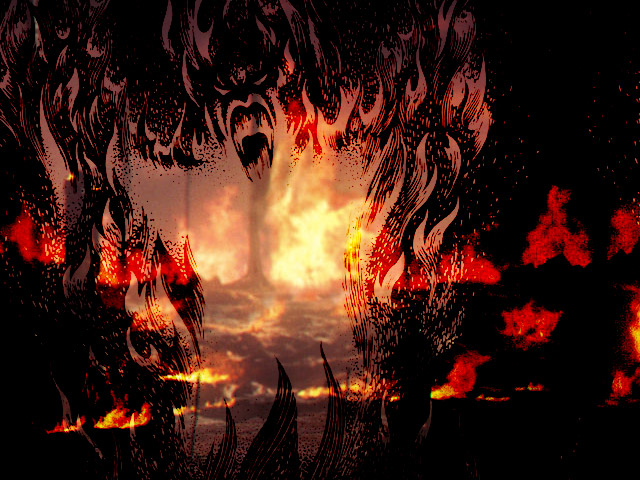
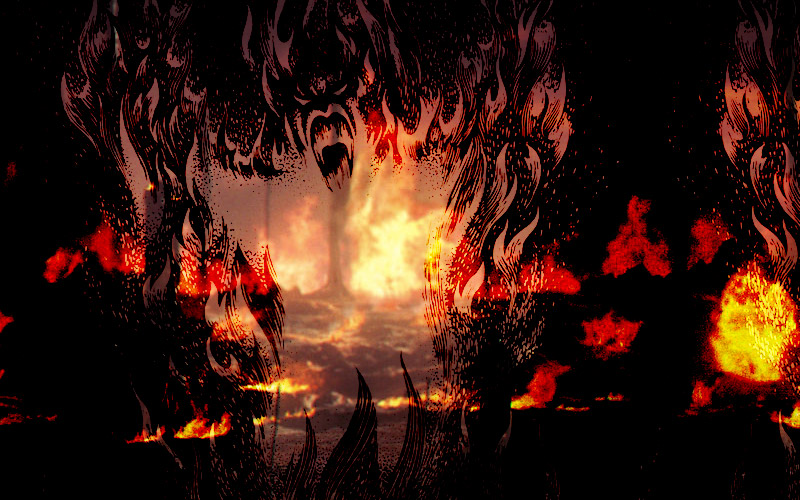
assets, refinement

diff --git a/index.html b/index.html
@@ -7,32 +7,69 @@
 	<meta name="description" content="Enclave Phaser Template" />
 	<style>
 
-    body{margin:0;padding:0;
-        position: relative;}
+    body{
+        margin:0;
+        padding:0;
+        background: black;
+        position: relative;
+    }
 
     #world {
+        max-width: 800px;
+        margin: 0 auto;
         position: relative;
-        z-index: 1;
     }
+
     #ui-overlay {
         position: absolute;
-        bottom: 10%;
-        left: 0;
-        z-index: 2;
-        width: 100%;
-        height: auto;
+        top: 0;
+        right: 0;
+        z-index: 1;
+        overflow: hidden;
+        text-align: left;
+        color: #8CE04C;
+        box-sizing: border-box;
+        padding: 316px 0 0 32px;
+        max-width: 80%;
     }
 
     .message {
-        width: 100%;
-        height: 100%;
+        display: inline-block;
         background-color: #03442E;
-        padding: 10px;
+        background-color: rgba(3,68,46,0.9);
+        border-radius: 18px 0 0 18px;
         font-family: Arial, sans-serif;
         font-size: 24px;
+        padding: 18px 32px 18px 64px;
+        -webkit-box-shadow: inset 0px 0px 48px 2px rgba(0,0,0,0.75);
+        -moz-box-shadow: inset 0px 0px 48px 2px rgba(0,0,0,0.75);
+        box-shadow: inset 0px 0px 48px 2px rgba(0,0,0,0.75);
+    }
+
+    #ui-chapter {
+        position: absolute;
+        top: 0;
+        left: 0;
+        z-index: 1;
+        overflow: hidden;
         text-align: left;
         color: #8CE04C;
-        padding: 48px;
+        box-sizing: border-box;
+        padding: 32px;
+    }
+
+    .chapter {
+        display: inline-block;
+        background-color: #03442E;
+        background-color: rgba(3,68,46,0.9);
+        border-radius: 6px;
+        font-family: Arial, sans-serif;
+        font-size: 18px;
+        line-height: 24px;
+        padding: 32px;
+        -webkit-box-shadow: inset 0px 0px 48px 2px rgba(0,0,0,0.75);
+        -moz-box-shadow: inset 0px 0px 48px 2px rgba(0,0,0,0.75);
+        box-shadow: inset 0px 0px 48px 2px rgba(0,0,0,0.75);
     }
 
     </style>
@@ -54,11 +91,12 @@
 
 </head>
 <body>
-<a href="https://github.com/EnclaveGames/Enclave-Phaser-Template/"><img style="position: absolute; top: 0; right: 0; border: 0;" src="https://camo.githubusercontent.com/a6677b08c955af8400f44c6298f40e7d19cc5b2d/68747470733a2f2f73332e616d617a6f6e6177732e636f6d2f6769746875622f726962626f6e732f666f726b6d655f72696768745f677261795f3664366436642e706e67" alt="Fork me on GitHub" data-canonical-src="https://s3.amazonaws.com/github/ribbons/forkme_right_gray_6d6d6d.png"></a>
 <script src="src/start.js"></script>
 
     <div id="world">
         <div id="ui-overlay">
+        </div>
+        <div id="ui-chapter">
         </div>
     </div>
 

diff --git a/src/Preloader.js b/src/Preloader.js
@@ -20,12 +20,13 @@ EPT.Preloader.prototype = {
 };
 EPT.Preloader.resources = {
 	'image': [
-		['background', 'img/bonsanto-state001.jpg'],
+		['background', 'img/bonsanto-state001.png'],
 		['title', 'img/title.png'],
-		['logo-emc', 'img/fnord_128x128.png'],
+		//['logo-emc', 'img/fnord_128x128.png'],
+		['logo-emc', 'img/pyramid_24.png'],
 		['clickme', 'img/clickme.png'],
 		['overlay', 'img/overlay.png'],
-        ['plateBgState001', 'img/bonsanto-state001.jpg'],
+        ['plateBgState001', 'img/bonsanto-state001.png'],
         ['plateBgState002', 'img/bonsanto-state002.jpg'],
         ['bono', 'img/bono.png'],
         ['bono60', 'img/bono-60.png'],
@@ -33,8 +34,10 @@ EPT.Preloader.resources = {
         ['clickMe', 'img/clickMe.png']
 	],
 	'spritesheet': [
-		['button-start', 'img/button-start.png', 180, 180],
-		['button-continue', 'img/button-continue.png', 180, 180],
+		//['button-start', 'img/button-start.png', 180, 180],
+		['button-start', 'img/Meffert_Pyraminx_Mixed.png', 180, 180],
+		//['button-continue', 'img/button-continue.png', 180, 180],
+        ['button-continue', 'img/Meffert_Pyraminx.png', 180, 180],
 		['button-mainmenu', 'img/button-mainmenu.png', 180, 180],
 		['button-restart', 'img/button-tryagain.png', 180, 180],
 		['button-achievements', 'img/button-achievements.png', 110, 110],

diff --git a/src/custom.js b/src/custom.js
@@ -1,9 +1,29 @@
-
-
 jQuery( document ).ready(function() {
     getData();
     getData2();
+    getChapter();
 });
+
+
+(function() {
+
+    var x = Math.floor((Math.random() * 10) + 1);
+
+    function getChapter() {
+        console.log(x);
+        jQuery.getJSON("chapterOne.json", function (chapterObj) {
+            chapterToPrint = chapterObj.paragraphs[0].paragraph1;
+        });
+    }
+
+})();
+
+
+function chapterText() {
+    console.log("chapterText");
+    jQuery("#ui-chapter").html("<div class='chapter'>" +chapterToPrint+ "</div>");
+    console.log(chapterToPrint);
+}
 
 
 function getData() {
@@ -13,10 +33,13 @@ function getData() {
     });
 }
 
+
 function uiOverlay() {
     console.log("uiOverlay");
     jQuery("#ui-overlay").html("<div class='message'>" +messageToPrint+ "</div>");
 }
+
+
 
 function getData2() {
     jQuery.getJSON("exampleObj.json", function(messagesObj2) {
@@ -25,11 +48,18 @@ function getData2() {
     });
 }
 
+
 function uiOverlay2() {
     console.log("uiOverlay2");
     jQuery("#ui-overlay").html("<div class='message'>" +messageToPrint2+ "</div>");
 }
 
+
 function removeOverlay() {
-    jQuery("#startScreen").hide();
+    jQuery(".message").hide();
+}
+
+
+function removeChapter() {
+    jQuery(".chapter").hide();
 }

diff --git a/src/MainMenu.js b/src/MainMenu.js
@@ -17,9 +17,9 @@ EPT.MainMenu.prototype = {
 		var buttonAchievements = this.add.button(20, this.world.height-20, 'button-achievements', this.clickAchievements, this, 1, 0, 2);
 		buttonAchievements.anchor.set(0,1);
 
-		var fontHighscore = { font: "32px Arial", fill: "#000" };
-		var textHighscore = this.add.text(this.world.width*0.5, this.world.height-50, 'Highscore: '+highscore, fontHighscore);
-		textHighscore.anchor.set(0.5,1);
+		//var fontHighscore = { font: "32px Arial", fill: "#fff" };
+		//var textHighscore = this.add.text(this.world.width*0.5, this.world.height-50, 'Highscore: '+highscore, fontHighscore);
+		//textHighscore.anchor.set(0.5,1);
 
 		EPT._manageAudio('init',this);
 
@@ -37,6 +37,8 @@ EPT.MainMenu.prototype = {
         buttonEnclave.scale.setTo(1,1);
         buttonAchievements.scale.setTo(1,1);
 
+        removeOverlay();
+
 	},
 	clickAudio: function() {
 		if(!EPT._audioStatus) {
@@ -48,7 +50,7 @@ EPT.MainMenu.prototype = {
 		if(!EPT._audioStatus) {
 			EPT._soundClick.play();
 		}
-		window.top.location.href = 'http://emc23.com/';
+		window.top.location.href = 'http://eclecticmeme.com/index.php';
 	},
 	clickStart: function() {
 		if(EPT._audioStatus) {

diff --git a/src/state03.js b/src/state03.js
@@ -12,6 +12,7 @@ bonsanto.State003.prototype = {
         console.log("State003");
 
         var plateBgState001 = this.add.sprite(0, 0, 'plateBgState001');
+
         this.add.sprite(204, 13, 'bono60');
 
         plateBgState001.alpha = 0;
@@ -19,8 +20,21 @@ bonsanto.State003.prototype = {
 
         this.add.tween(plateBgState001).to({alpha: 1}, 300, Phaser.Easing.Linear.None, true, 0, 0, false);
 
+
+        var buttonBack = this.add.button(this.world.width-20, game.world.height-20, 'button-back', this.clickBack, this, 1, 0, 2);
+        buttonBack.anchor.set(1,1);
+        buttonBack.x = this.world.width+buttonBack.width+20;
+        this.add.tween(buttonBack).to({x: this.world.width-20}, 500, Phaser.Easing.Exponential.Out, true);
+
+        uiOverlay2();
+
+    },
+    clickBack: function() {
+        if(EPT._audioStatus) {
+            EPT._soundClick.play();
+        }
+        this.game.state.start('MainMenu');
     }
 
+
 };
-
-

diff --git a/src/Story.js b/src/Story.js
@@ -1,17 +1,23 @@
 EPT.Story = function(game) {};
 EPT.Story.prototype = {
 	create: function(){
-		var textStory = this.add.text(100, 75, 'Story screen', { font: "32px Arial", fill: "#000" });
+
+        this.add.sprite(0, 0, 'background');
+		//var textStory = this.add.text(100, 75, 'Story screen', { font: "32px Arial", fill: "#fff" });
 		var buttonContinue = this.add.button(this.world.width-20, game.world.height-20, 'button-continue', this.clickContinue, this, 1, 0, 2);
 		buttonContinue.anchor.set(1,1);
 		buttonContinue.x = this.world.width+buttonContinue.width+20;
 		
 		this.add.tween(buttonContinue).to({x: this.world.width-20}, 500, Phaser.Easing.Exponential.Out, true);
+
+        chapterText();
+
 	},
 	clickContinue: function() {
 		if(EPT._audioStatus) {
 			EPT._soundClick.play();
 		}
+
 		this.game.state.start('State001');
 	}
 };

diff --git a/src/state02.js b/src/state02.js
@@ -16,6 +16,8 @@ bonsanto.State002.prototype = {
         plateBgState002.anchor.setTo(0.5, 0.5);
         plateBgState002.scale.setTo(1, 1);
 
+        removeOverlay();
+
         var evilBono = this.add.sprite(382, 242, 'evilBono');
         evilBono.anchor.setTo(0.5, 0.5);
         evilBono.scale.setTo(1, 1);
@@ -40,20 +42,17 @@ bonsanto.State002.prototype = {
 
         //tween.onStart.add(started, this);
         tween.onComplete.add(completed, this);
+
     }
 
 };
 
 
 function started() {
-
     console.log("tween started");
-
 }
 
 function completed() {
-
     console.log("tween complete");
     this.state.start('State003');
-
 }

diff --git a/src/state01.js b/src/state01.js
@@ -34,6 +34,7 @@ bonsanto.State001.prototype = {
         obj001.events.onInputDown.add(listener, this);
 
         uiOverlay();
+        removeChapter();
 
         var buttonBack = this.add.button(this.world.width-20, game.world.height-20, 'button-back', this.clickBack, this, 1, 0, 2);
         buttonBack.anchor.set(1,1);
@@ -59,9 +60,6 @@ function listener () {
 
     // initiate second state onInputDown in create function
     this.state.start('State002');
-
-    uiOverlay2();
-    removeOverlay();
 
 }
 

diff --git a/src/start.js b/src/start.js
@@ -1,5 +1,5 @@
 // (function(){
-	var game = new Phaser.Game(640, 480, Phaser.CANVAS, 'world');
+	var game = new Phaser.Game(800, 500, Phaser.CANVAS, 'world', null, true, true, null);
 	var states = {
 		'Boot': EPT.Boot,
 		'Preloader': EPT.Preloader,
@@ -13,5 +13,5 @@
 	};
 	for(var state in states)
 		game.state.add(state, states[state]);
-	game.state.start('Boot');
+	    game.state.start('Boot');
 // })();

diff --git a/src/Boot.js b/src/Boot.js
@@ -31,7 +31,7 @@ EPT.Boot.prototype = {
 		this.load.image('loading-progress', 'img/loading-progress.png');
 	},
 	create: function(){
-		this.scale.scaleMode = Phaser.ScaleManager.SHOW_ALL
+		this.scale.scaleMode = Phaser.ScaleManager.SHOW_ALL;
 		this.scale.pageAlignVertically = true;
 		this.state.start('Preloader');
 	}

diff --git a/src/Achievements.js b/src/Achievements.js
@@ -4,6 +4,8 @@ EPT.Achievements = function(game) {};
 
 EPT.Achievements.prototype = {
 	create: function(){
+
+        this.add.sprite(0, 0, 'background');
 		var fontAchievements = { font: "32px Arial", fill: "#000" };
 		var textAchievements = this.add.text(100, 75, 'Achievements screen', fontAchievements);
 
